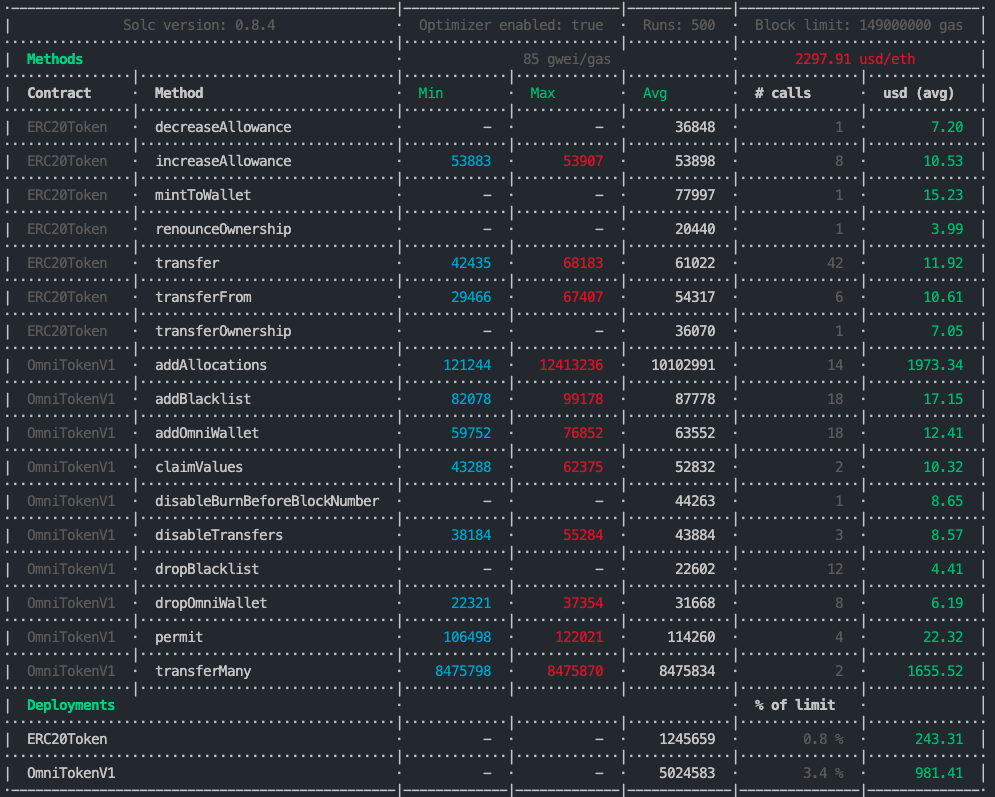
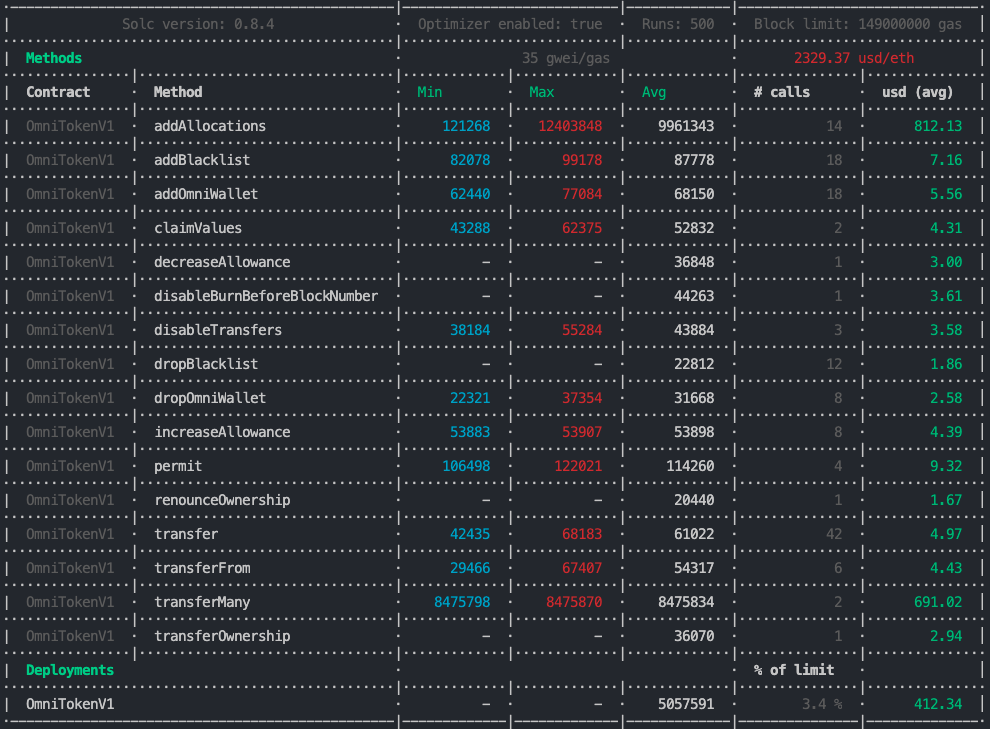
DOC: update the Readme.md

diff --git a/hardhat.config.ts b/hardhat.config.ts
@@ -117,9 +117,10 @@ task("accounts", "Prints the list of accounts", async (args, hre) => {
 	},
 	gasReporter: {
 		currency: 'USD',
-		gasPrice: 85,
+		gasPrice: 35,
 		coinmarketcap: process.env.COINMARKETCAP_API_KEY,
 		maxMethodDiff: 10,
+		excludeContracts: ['ERC20Token.sol']
 	},
 	contractSizer: {
 		alphaSort: true,

diff --git a/README.md b/README.md
@@ -1,14 +1,19 @@
 # OMNI Contracts V1
 
 Before to Start
+
 ---
+
 #### Validate Develop Environment
+
 ---
+
 - Node v14.17.0 or +
 - Solc v0.8.4 or +
 - Hardhat v2.2.1 or +
 
 #### Start migration
+
 ---
 ```
 npx hardhat run scripts/deploy.ts
@@ -20,34 +25,32 @@ npm run deploy
 
 #### Start Hardhat test
 ---
+
 ```
 npx hardhat test
 ```
 
 ## environment variables (.env file)
 ---
-MNEMONIC=
-<br/>
-INFURAKEY=
-<br/>
-PRIVATE_KEY=
-<br/>
-COINMARKETCAP_API_KEY=
-<br/>
-ETHERSCAN_API_KEY=
-<br/>
-URL_BSC=https://bsc-dataseed1.binance.org
-<br/>
-URL_TESTNET_BSC=https://data-seed-prebsc-1-s1.binance.org:8545
-<br/>
-URL_MOONBEAM_TESTNET=https://rpc.testnet.moonbeam.network
+
+- MNEMONIC=
+- INFURAKEY=
+- PRIVATE_KEY=
+- COINMARKETCAP_API_KEY=
+- ETHERSCAN_API_KEY=
+- URL_BSC=https://bsc-dataseed1.binance.org
+- URL_TESTNET_BSC=https://data-seed-prebsc-1-s1.binance.org:8545
+- URL_MOONBEAM_TESTNET=https://rpc.testnet.moonbeam.network
 
 ### Last ETH Gas Reporter
+
+- Simulation for addAllocation() and transferMany() Methods based arrays of 100 addresses
+
 ---
 ![](./gasreporter.png)
 
-
 ### Last Contract Size Reporter
+
 ---
 ![](./sizereporter.png)
 
